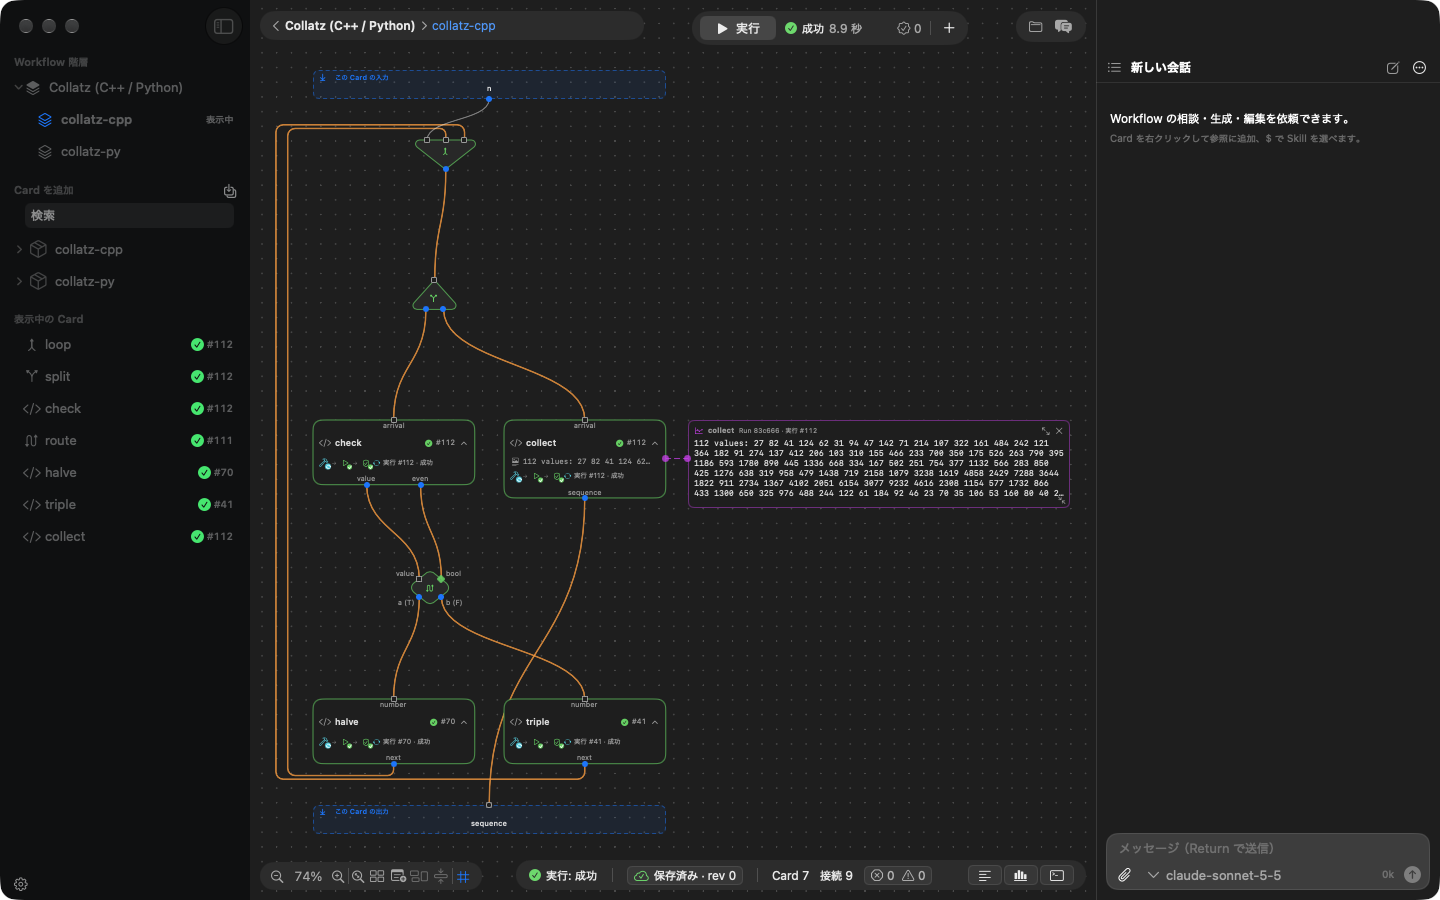
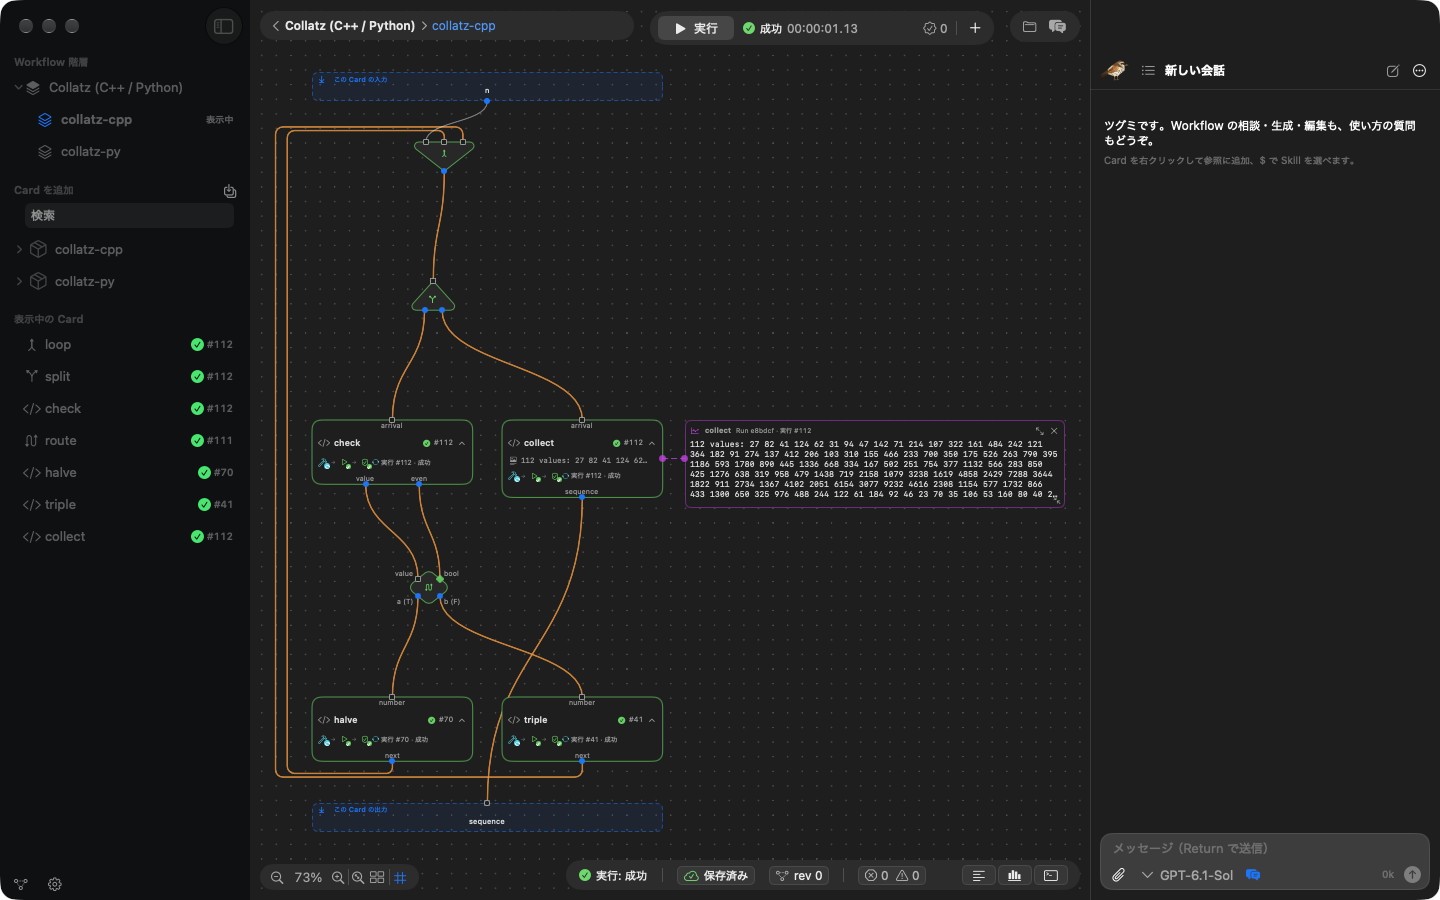
README: screenshots retaken from the current app (macOS/tools/screenshots/readme.ui), with Tsugumi in the chat, and a section on Tsugumi's guide ($demo) with its image

diff --git a/README.md b/README.md
@@ -96,6 +96,13 @@ Card の設定を開くと、その処理のソースコードや入出力ポー
 
 ![各 Card の実行を時間軸で確認するタイムライン](docs/assets/screenshots/timeline.png)
 
+### ツグミに案内してもらう
+
+はじめて開くと、右下のツグミが「何に興味がありますか？」と尋ね、答えに合うデモを選んで案内します。
+プロジェクトではチャットがツグミです。`$demo` と書くと、ツグミが画面の中を飛び回り、Card や実行ボタン、Card の設定を指しながら、選択肢を出して一歩ずつ説明します（OpenAI・Anthropic の API キーか ChatGPT のプランで使えます）。
+
+![ツグミが compare の Card に飛んでいき、吹き出しで説明と選択肢を出している画面](docs/assets/screenshots/guide.png)
+
 ## 使ってみる
 
 Apple silicon Mac / macOS 26 以降に対応しています。[GitHub Releases](https://github.com/gen740/Tsugumi/releases) のアプリを入れると、以後は新しいリリースに自動で更新されます。アプリには計算の実行環境とデモが入っており、計算環境を別に用意する必要はありません。
